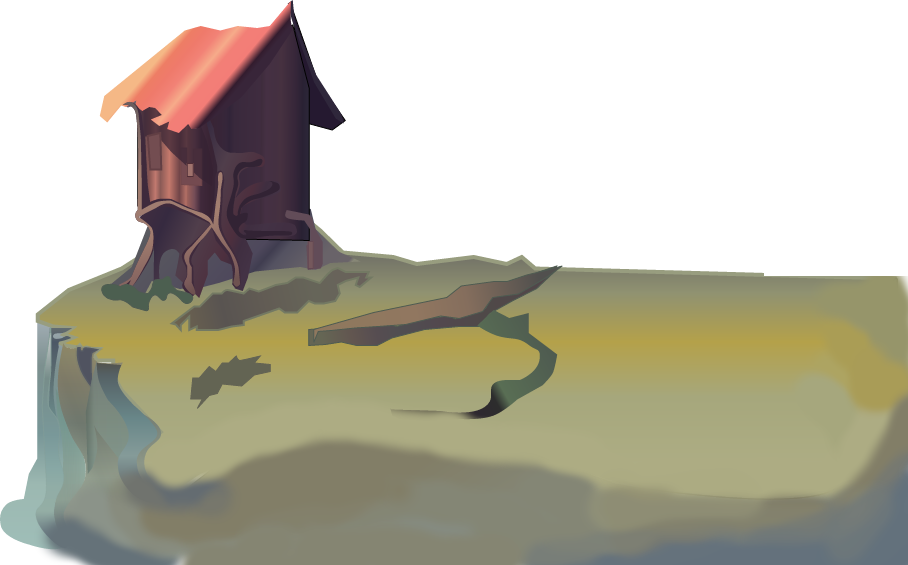
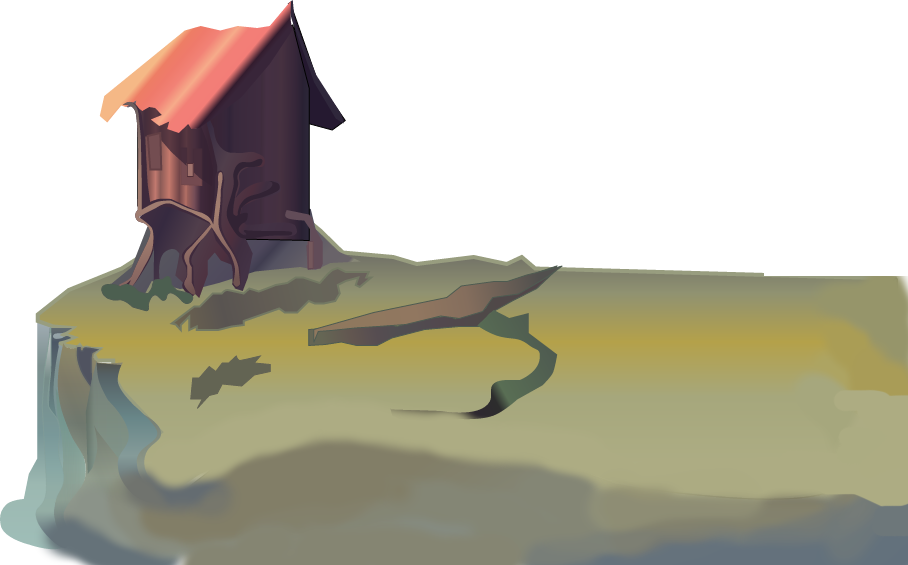
Hero: add layer-05 with mirrored copy; tune layer-03/04 placement
- layer-05: fixed 3D panel at the image's own size plus a mirrored copy
- layer-04 moved to z -800; layer-03 backdrop and left wall shifted
- Updated layer-03 and layer-05 artwork

Changed region(s): [[0.9251, 0.692, 1.0, 0.9027]]

diff --git a/src/docs/hero/hero_parallax.ts b/src/docs/hero/hero_parallax.ts
@@ -454,7 +454,7 @@ export async function heroParallax(
         alphaCutoff: 0.5,
         width: mountainBackdropWidth * 0.8,
         height: mountainBackdropHeight * 0.8,
-        position: { x: 0, y: 0, z: mountainBackdropDistance * 0.8 },
+        position: { x: -100, y: -200, z: mountainBackdropDistance * 0.8 },
         texture: { path: appAssetPath('img/hero/layer-03.png'), width: layer03Width, height: layer03Height },
         effects: [
             { type: 'follow', settings: { follow: 'CAMERA', axis: { x: true, y: true, z: false } } },
@@ -468,7 +468,7 @@ export async function heroParallax(
         alphaCutoff: 0.5,
         width: mountainSideDepth * 0.8,
         height: mountainBackdropHeight * 0.8,
-        position: { x: -mountainSideX * 0.8, y: 0, z: mountainSideZ * 0.8 },
+        position: { x: -100 + -mountainSideX * 0.8, y: -200, z: mountainSideZ * 0.8 },
         rotate: { pitch: 0, yaw: mountainSideLeftYaw, roll: 0 },
         mirrorTextureHorizontal: false,
         texture: { path: appAssetPath('img/hero/layer-03.png'), width: layer03Width, height: layer03Height },
@@ -494,7 +494,7 @@ export async function heroParallax(
     });
 
     // Layer 04 - a plain panel fixed in 3D space (no follow effect), at the image's own size
-    // and proportions, centered on the starting view axis.
+    // and proportions, left of the view axis, with a mirrored copy extending it further left.
     world.addPanel({
         id: 'layer-04',
         type: ELEMENT_TYPES.PANEL,
@@ -502,7 +502,7 @@ export async function heroParallax(
         alphaCutoff: 0.5,
         width: 696,
         height: 507,
-        position: { x:  -350, y: 50, z: -1000 },
+        position: { x:  -350, y: 50, z: -800 },
         texture: { path: appAssetPath('img/hero/layer-04.png'), width: 696, height: 507 },
     });
     world.addPanel({
@@ -513,8 +513,30 @@ export async function heroParallax(
         width: 696,
         height: 507,
         mirrorTextureHorizontal: true,
-        position: { x:  -350 - 696, y: 50, z: -1000 },
+        position: { x:  -350 - 696, y: 50, z: -800 },
         texture: { path: appAssetPath('img/hero/layer-04.png'), width: 696, height: 507 },
+    });
+
+    world.addPanel({
+        id: 'layer-05',
+        type: ELEMENT_TYPES.PANEL,
+        fitMode: 'fill',
+        alphaCutoff: 0.5,
+        width: 908,
+        height: 565,
+        position: { x: 550, y: 50, z: -1200 },
+        texture: { path: appAssetPath('img/hero/layer-05.png'), width: 908, height: 565 },
+    });
+    world.addPanel({
+        id: 'layer-05-mirror',
+        type: ELEMENT_TYPES.PANEL,
+        fitMode: 'fill',
+        alphaCutoff: 0.5,
+        width: 908,
+        height: 565,
+        mirrorTextureHorizontal: true,
+        position: { x: 550 + 908, y: 50, z: -1200 },
+        texture: { path: appAssetPath('img/hero/layer-05.png'), width: 908, height: 565 },
     });
 
     world.addBox({
